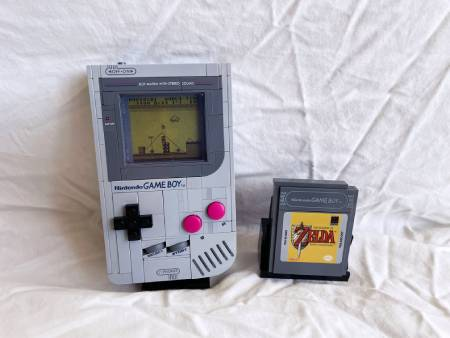
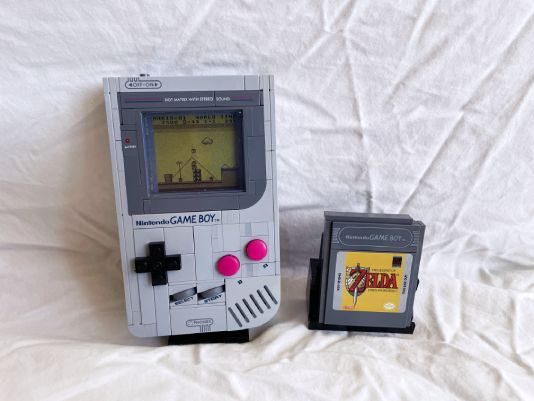
byter bilder product3

diff --git a/product3.html b/product3.html
@@ -70,18 +70,18 @@
         <div class="productImages gridSectionOne">
             <a href="images/product3/product3_lightbox.jpg" target="_blank" data-lightbox="product1-images">
                 <picture>
-                    <source srcset="images/product3/product3_main.webp" width="450" height="338" type="image/webp">
-                    <img src="images/product3/product3_main.jpg" alt="Grått Nintendo Game Boy spel konsol" width="450"
-                        height="338" fetchpriority="high">
+                    <source srcset="images/product3/product3_main.webp" width="534" height="401" type="image/webp">
+                    <img src="images/product3/product3_main.jpg" alt="Grått Nintendo Game Boy spel konsol" width="534"
+                        height="401" fetchpriority="high">
                 </picture>
             </a>
             <div class="thumbnailsProduct">
                 <a href="images/product3/product3_2lightbox.jpg" target="_blank" data-lightbox="product1-images">
                     <picture>
-                        <source srcset="images/product3/product3_2mainsmall.webp" width="150" height="113"
+                        <source srcset="images/product3/product3_2mainsmall.webp" width="255" height="169"
                             type="image/webp">
                         <img src="images/product3/product3_2mainsmall.jpg" alt="Grått Nintendo Game Boy spel konsol"
-                            width="150" height="113">
+                            width="225" height="169">
                     </picture>
                 </a>
                 <a href="images/product3/product3_3lightbox.jpg" target="_blank" data-lightbox="product1-images">

diff --git a/products.html b/products.html
@@ -85,10 +85,10 @@
                 <a href="product3.html">
                     <div>
                         <picture>
-                            <source srcset="images/product3/product3_products.webp" width="400" height="300"
+                            <source srcset="images/product3/product3_products.webp" width="534" height="401"
                                 type="image/webp">
-                            <img src="images/product3/product3_products.jpg" alt="gul och blå legokruka med grön växt"
-                                width="400" height="300">
+                            <img src="images/product3/product3_products.jpg" alt="Grått Nintendo Game Boy spel konsol"
+                                width="534" height="401">
                         </picture>
                         <h2>Game boy</h2>
                         <h3>Artikelnummer: 001-003</h3>
